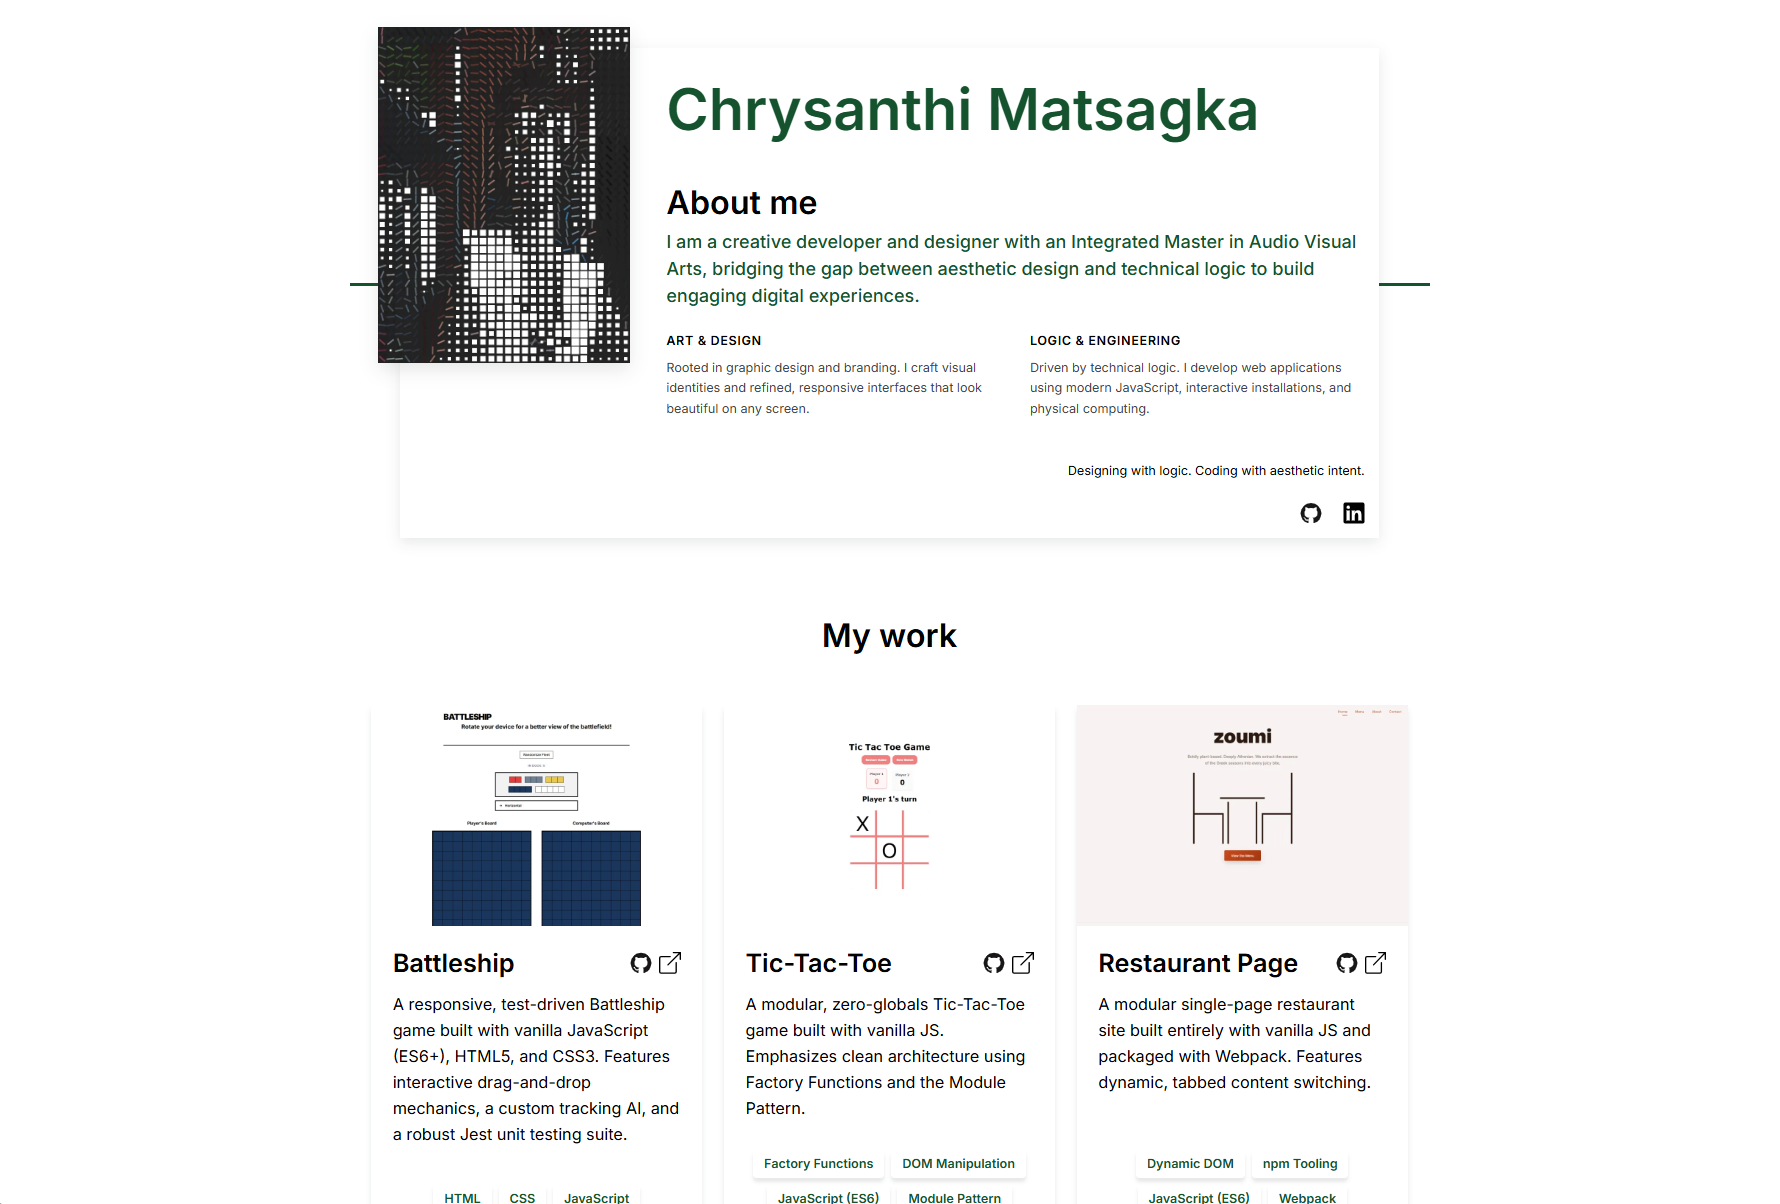
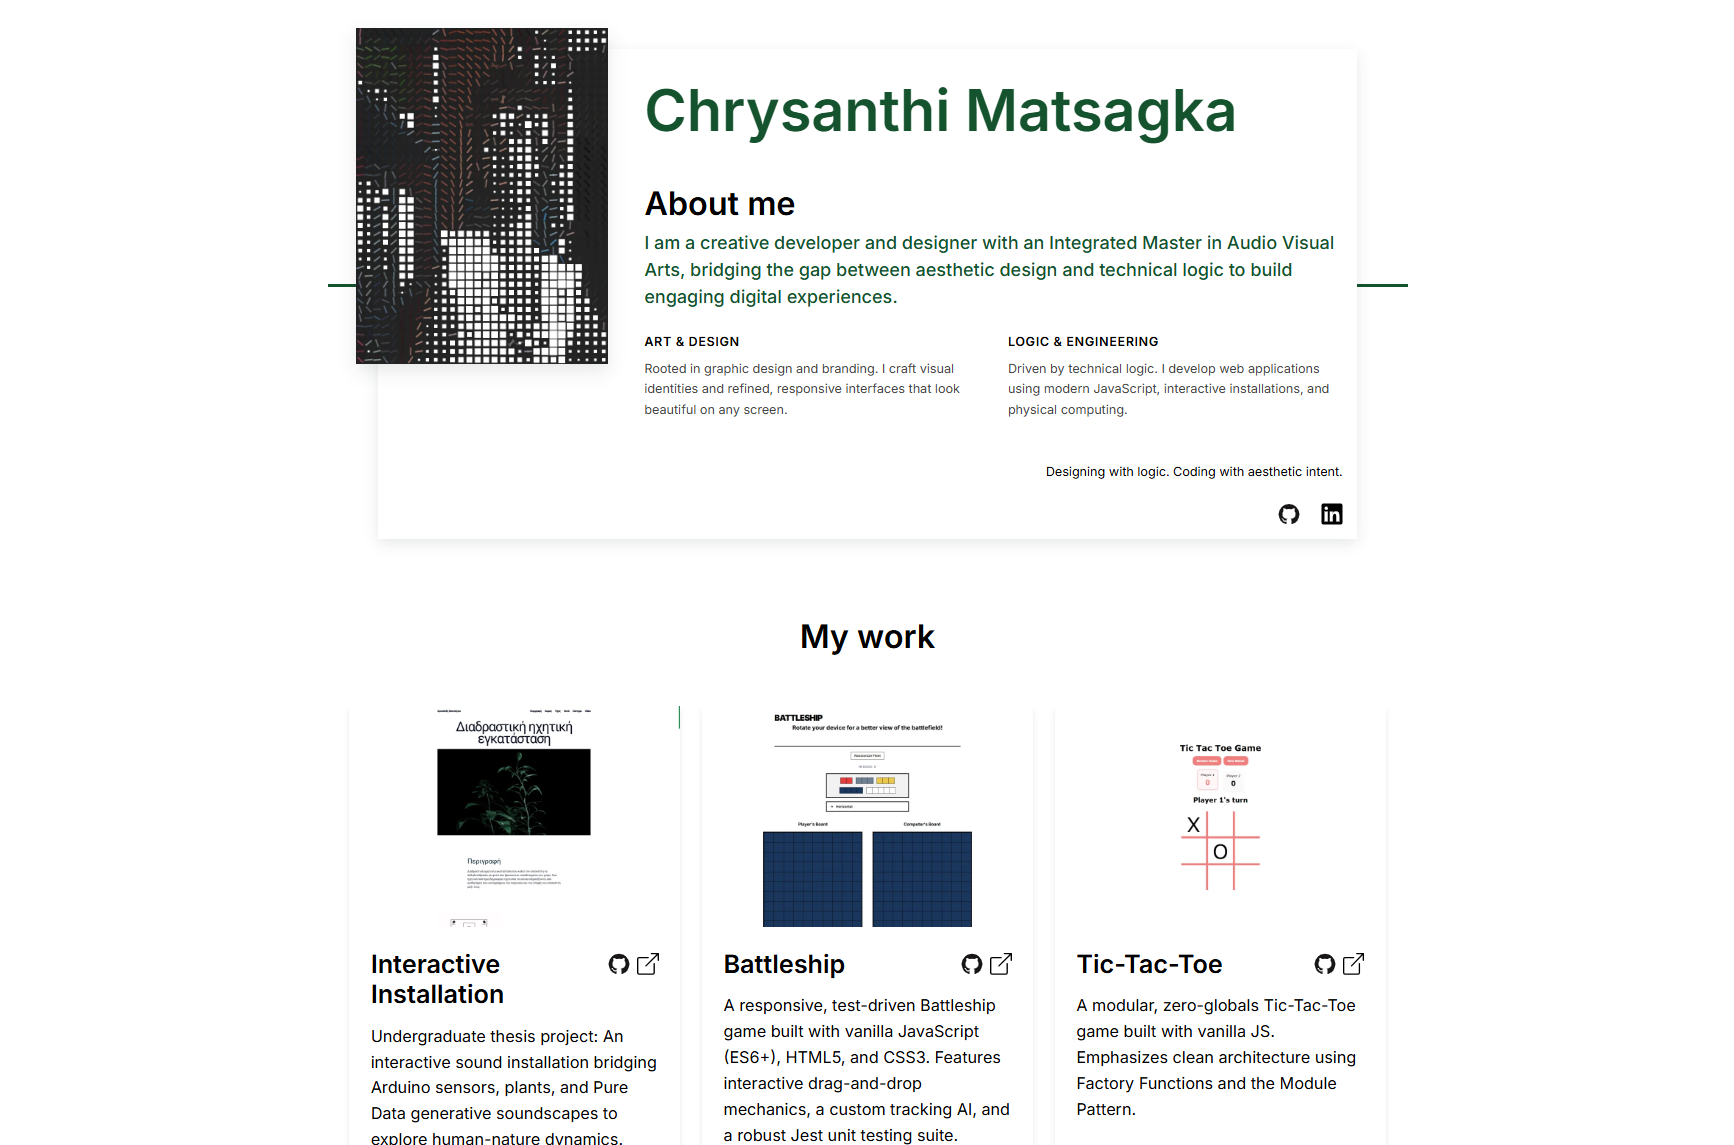
Add new project

diff --git a/src/projectsData.js b/src/projectsData.js
@@ -10,8 +10,27 @@ import restaurantPage1x from './assets/preview/restaurantPage_1x.webp';
 import restaurantPage2x from './assets/preview/restaurantPage_2x.webp';
 import library1x from './assets/preview/library_1x.webp';
 import library2x from './assets/preview/library_2x.webp';
+import installation1x from './assets/preview/installation_1x.webp';
+import installation2x from './assets/preview/installation_2x.webp';
 
 export const projects = [
+	{
+		title: 'Interactive Installation',
+		description:
+			'Undergraduate thesis project: An interactive sound installation bridging Arduino sensors, plants, and Pure Data generative soundscapes to explore human-nature dynamics.',
+		githubUrl: 'https://github.com/cmatsagka/installation-repo',
+		liveUrl: 'https://cmatsagka.github.io/installation-repo/',
+		tags: [
+			'HTML',
+			'CSS',
+			'JavaScript',
+			'Arduino',
+			'Raspberry Pi',
+			'Pure Data',
+		],
+		images: { x1: installation1x, x2: installation2x },
+	},
+
 	{
 		title: 'Battleship',
 		description:
@@ -60,21 +79,6 @@ export const projects = [
 			'CSS Grid/Flexbox',
 		],
 		images: { x1: todoList1x, x2: todoList2x },
-	},
-
-	{
-		title: 'Personal Library',
-		description:
-			'A digital bookshelf app for cataloging books. Built with vanilla JS, focusing on dynamic object prototypes, DOM tables, and custom form validation.',
-		githubUrl: 'https://github.com/cmatsagka/library',
-		liveUrl: 'https://cmatsagka.github.io/library/',
-		tags: [
-			'JavaScript (ES6)',
-			'Object Prototypes',
-			'Forms & Validation',
-			'DOM API',
-		],
-		images: { x1: library1x, x2: library2x },
 	},
 
 	{

diff --git a/src/styles.css b/src/styles.css
@@ -244,7 +244,7 @@ main h2 {
 
 .tags-wrapper {
 	display: flex;
-	flex-wrap: wrap-reverse;
+	flex-wrap: wrap;
 	justify-content: center;
 	gap: var(--spacing-xsm);
 	margin-top: auto;
